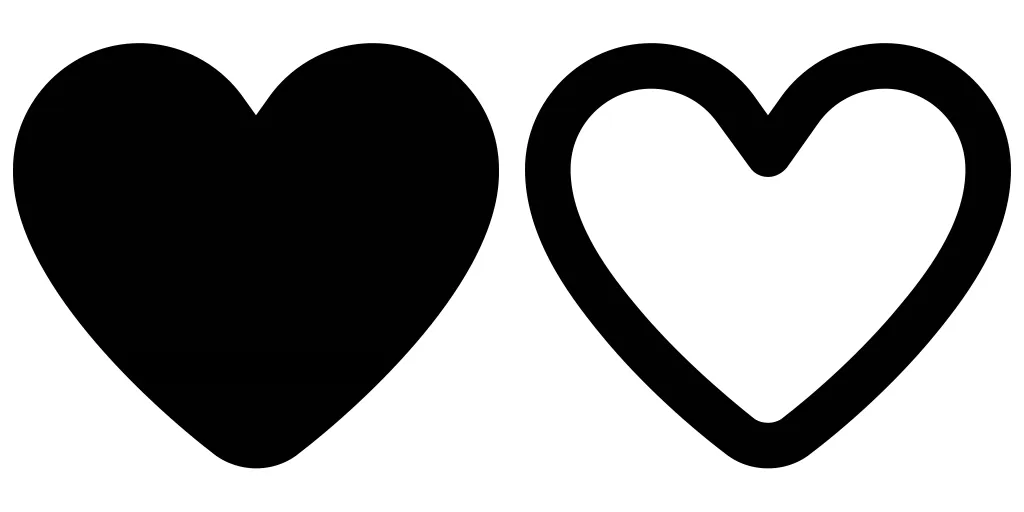
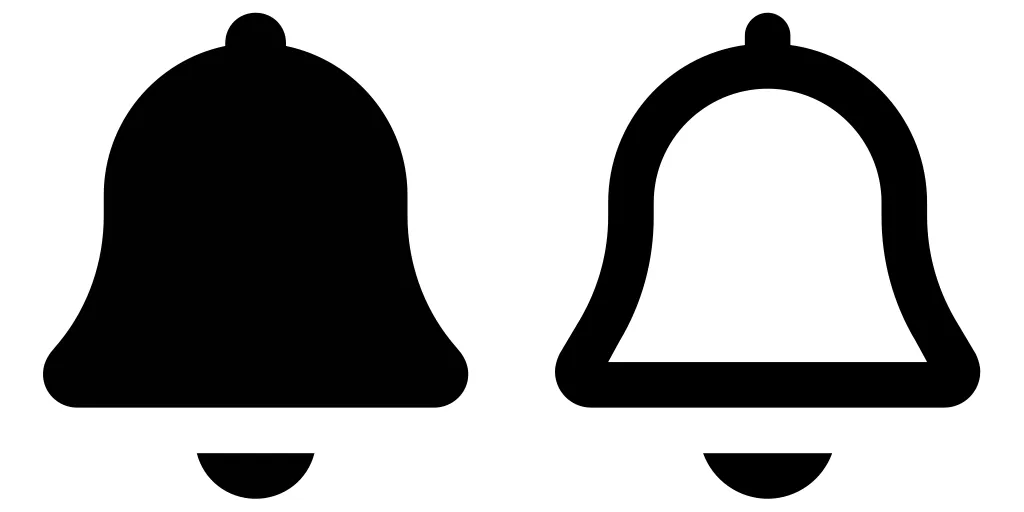
edit images

diff --git a/README.md b/README.md
@@ -193,10 +193,10 @@ Some Font Awesome icons have different styles. You can explicitly specify which 
 
 ```python
 # Solid style (filled) - default for most icons
-solid_heart = renderer.render_icon("heart", style="solid")
+solid_heart = renderer.render_icon("bell", style="solid")
 
 # Regular style (outlined)
-regular_heart = renderer.render_icon("heart", style="regular")
+regular_heart = renderer.render_icon("bell", style="regular")
 ```
 
 ![](docs/combined_icons_styles.webp)
